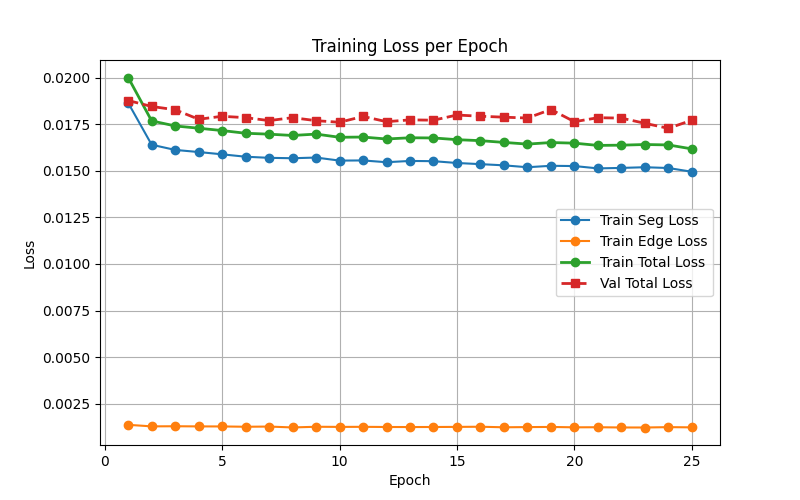
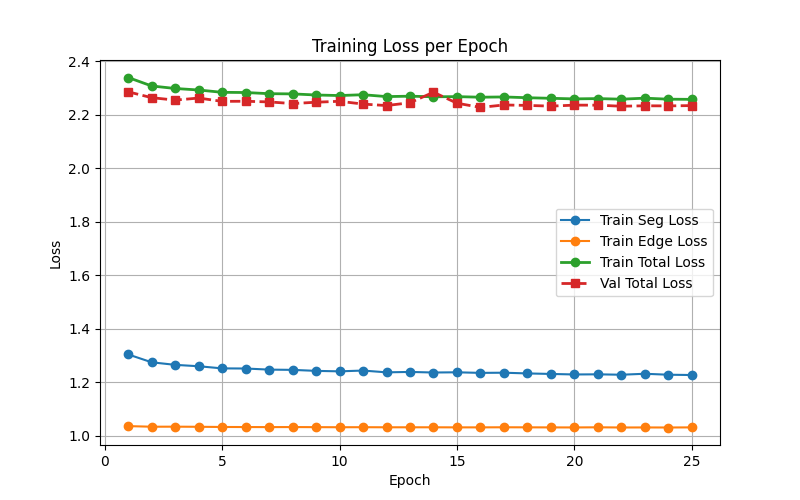
Implement Tversky loss, pos_weight 500 for edges, and force 8/8 manipulated batch for overfit tests

diff --git a/model/train.py b/model/train.py
@@ -16,11 +16,12 @@ import numpy as np
 import torch.nn.functional as F
 
 class CombinedLoss(nn.Module):
-    def __init__(self, bce_weight=1.0, dice_weight=1.0, pos_weight_val=50.0):
+    def __init__(self, bce_weight=1.0, dice_weight=1.0, pos_weight_val=50.0, use_tversky=False):
         super(CombinedLoss, self).__init__()
         self.bce_weight = bce_weight
         self.dice_weight = dice_weight
         self.pos_weight_val = pos_weight_val
+        self.use_tversky = use_tversky
 
     def forward(self, inputs, targets):
         # Create pos_weight tensor on the same device as inputs
@@ -29,16 +30,24 @@ class CombinedLoss(nn.Module):
         # Calculate BCE loss with pos_weight
         bce_loss = F.binary_cross_entropy_with_logits(inputs, targets, pos_weight=pos_weight)
         
-        # Calculate Dice loss (expects probabilities)
+        # Calculate Region loss (expects probabilities)
         probs = torch.sigmoid(inputs)
         probs_flat = probs.view(-1)
         targets_flat = targets.view(-1)
         
-        smooth = 1e-5
-        intersection = (probs_flat * targets_flat).sum()
-        dice_loss = 1 - ((2. * intersection + smooth) / (probs_flat.sum() + targets_flat.sum() + smooth))
+        smooth = 1e-6
+        if self.use_tversky:
+            alpha = 0.3
+            beta = 0.7
+            intersection = (probs_flat * targets_flat).sum()
+            fps = (probs_flat * (1 - targets_flat)).sum()
+            fns = ((1 - probs_flat) * targets_flat).sum()
+            region_loss = 1 - ((intersection + smooth) / (intersection + alpha * fps + beta * fns + smooth))
+        else:
+            intersection = (probs_flat * targets_flat).sum()
+            region_loss = 1 - ((2. * intersection + smooth) / (probs_flat.sum() + targets_flat.sum() + smooth))
         
-        return (self.bce_weight * bce_loss) + (self.dice_weight * dice_loss)
+        return (self.bce_weight * bce_loss) + (self.dice_weight * region_loss)
 
 # =============================================================================
 # HYPERPARAMETERS & CONFIG
@@ -70,6 +79,10 @@ SMOKE_TEST_BATCHES = 2
 # Bump LR automatically for overfit sanity checks to avoid step-starvation
 if OVERFIT_BATCH:
     LEARNING_RATE = 1e-3
+    print("OVERFIT MODE: Setting global seed for deterministic split and batch...")
+    torch.manual_seed(42)
+    random.seed(42)
+    np.random.seed(42)
 
 
 def train():
@@ -101,7 +114,7 @@ def train():
     # to severely penalize the model for missing the 1% forged pixels.
     # This prevents the mode collapse where it just predicts all zeros.
     seg_criterion = CombinedLoss(bce_weight=1.0, dice_weight=1.0, pos_weight_val=50.0)
-    edge_criterion = CombinedLoss(bce_weight=1.0, dice_weight=1.0, pos_weight_val=50.0)
+    edge_criterion = CombinedLoss(bce_weight=1.0, dice_weight=1.0, pos_weight_val=500.0, use_tversky=True)
     
     # 4. DataLoader
     print(f"Loading datasets: {DATASETS}...")
@@ -152,28 +165,33 @@ def train():
     print("Starting training loop...")
     
     if OVERFIT_BATCH:
-        print("OVERFIT MODE: Setting seed for deterministic batch...")
-        torch.manual_seed(42)
-        random.seed(42)
-        np.random.seed(42)
-        
-        print("OVERFIT MODE: Grabbing a single batch to overfit...")
-        overfit_imgs, overfit_masks, overfit_edges = next(iter(train_loader))
+        print("OVERFIT MODE: Grabbing a single batch of 8 perfectly manipulated images...")
+        manip_imgs, manip_masks, manip_edges = [], [], []
+        for imgs, masks, edges in train_loader:
+            for i in range(imgs.size(0)):
+                if masks[i].sum() > 0:
+                    manip_imgs.append(imgs[i])
+                    manip_masks.append(masks[i])
+                    manip_edges.append(edges[i])
+                if len(manip_imgs) == 8:
+                    break
+            if len(manip_imgs) == 8:
+                break
+                
+        overfit_imgs = torch.stack(manip_imgs)
+        overfit_masks = torch.stack(manip_masks)
+        overfit_edges = torch.stack(manip_edges)
         overfit_imgs = overfit_imgs.to(device)
         overfit_masks = overfit_masks.to(device)
         overfit_edges = overfit_edges.to(device)
         
-        # Save these exact images so the user can test them
+        # Save these exact images and masks so the user can test them
         os.makedirs("reports/overfit_samples", exist_ok=True)
         import torchvision
         for i in range(overfit_imgs.size(0)):
-            # Convert back from normalized tensor to image
-            inv_normalize = torchvision.transforms.Normalize(
-                mean=[-0.485/0.229, -0.456/0.224, -0.406/0.225],
-                std=[1/0.229, 1/0.224, 1/0.225]
-            )
-            img = inv_normalize(overfit_imgs[i].cpu())
-            torchvision.utils.save_image(img, f"reports/overfit_samples/overfit_{i}.jpg")
+            # Dataloader outputs in [0, 1] range, no ImageNet inv_normalize needed
+            torchvision.utils.save_image(overfit_imgs[i].cpu(), f"reports/overfit_samples/overfit_{i}.jpg")
+            torchvision.utils.save_image(overfit_masks[i].cpu().float(), f"reports/overfit_samples/overfit_{i}_gt.png")
 
     for epoch in range(start_epoch, total_epochs + 1):
         model.train()